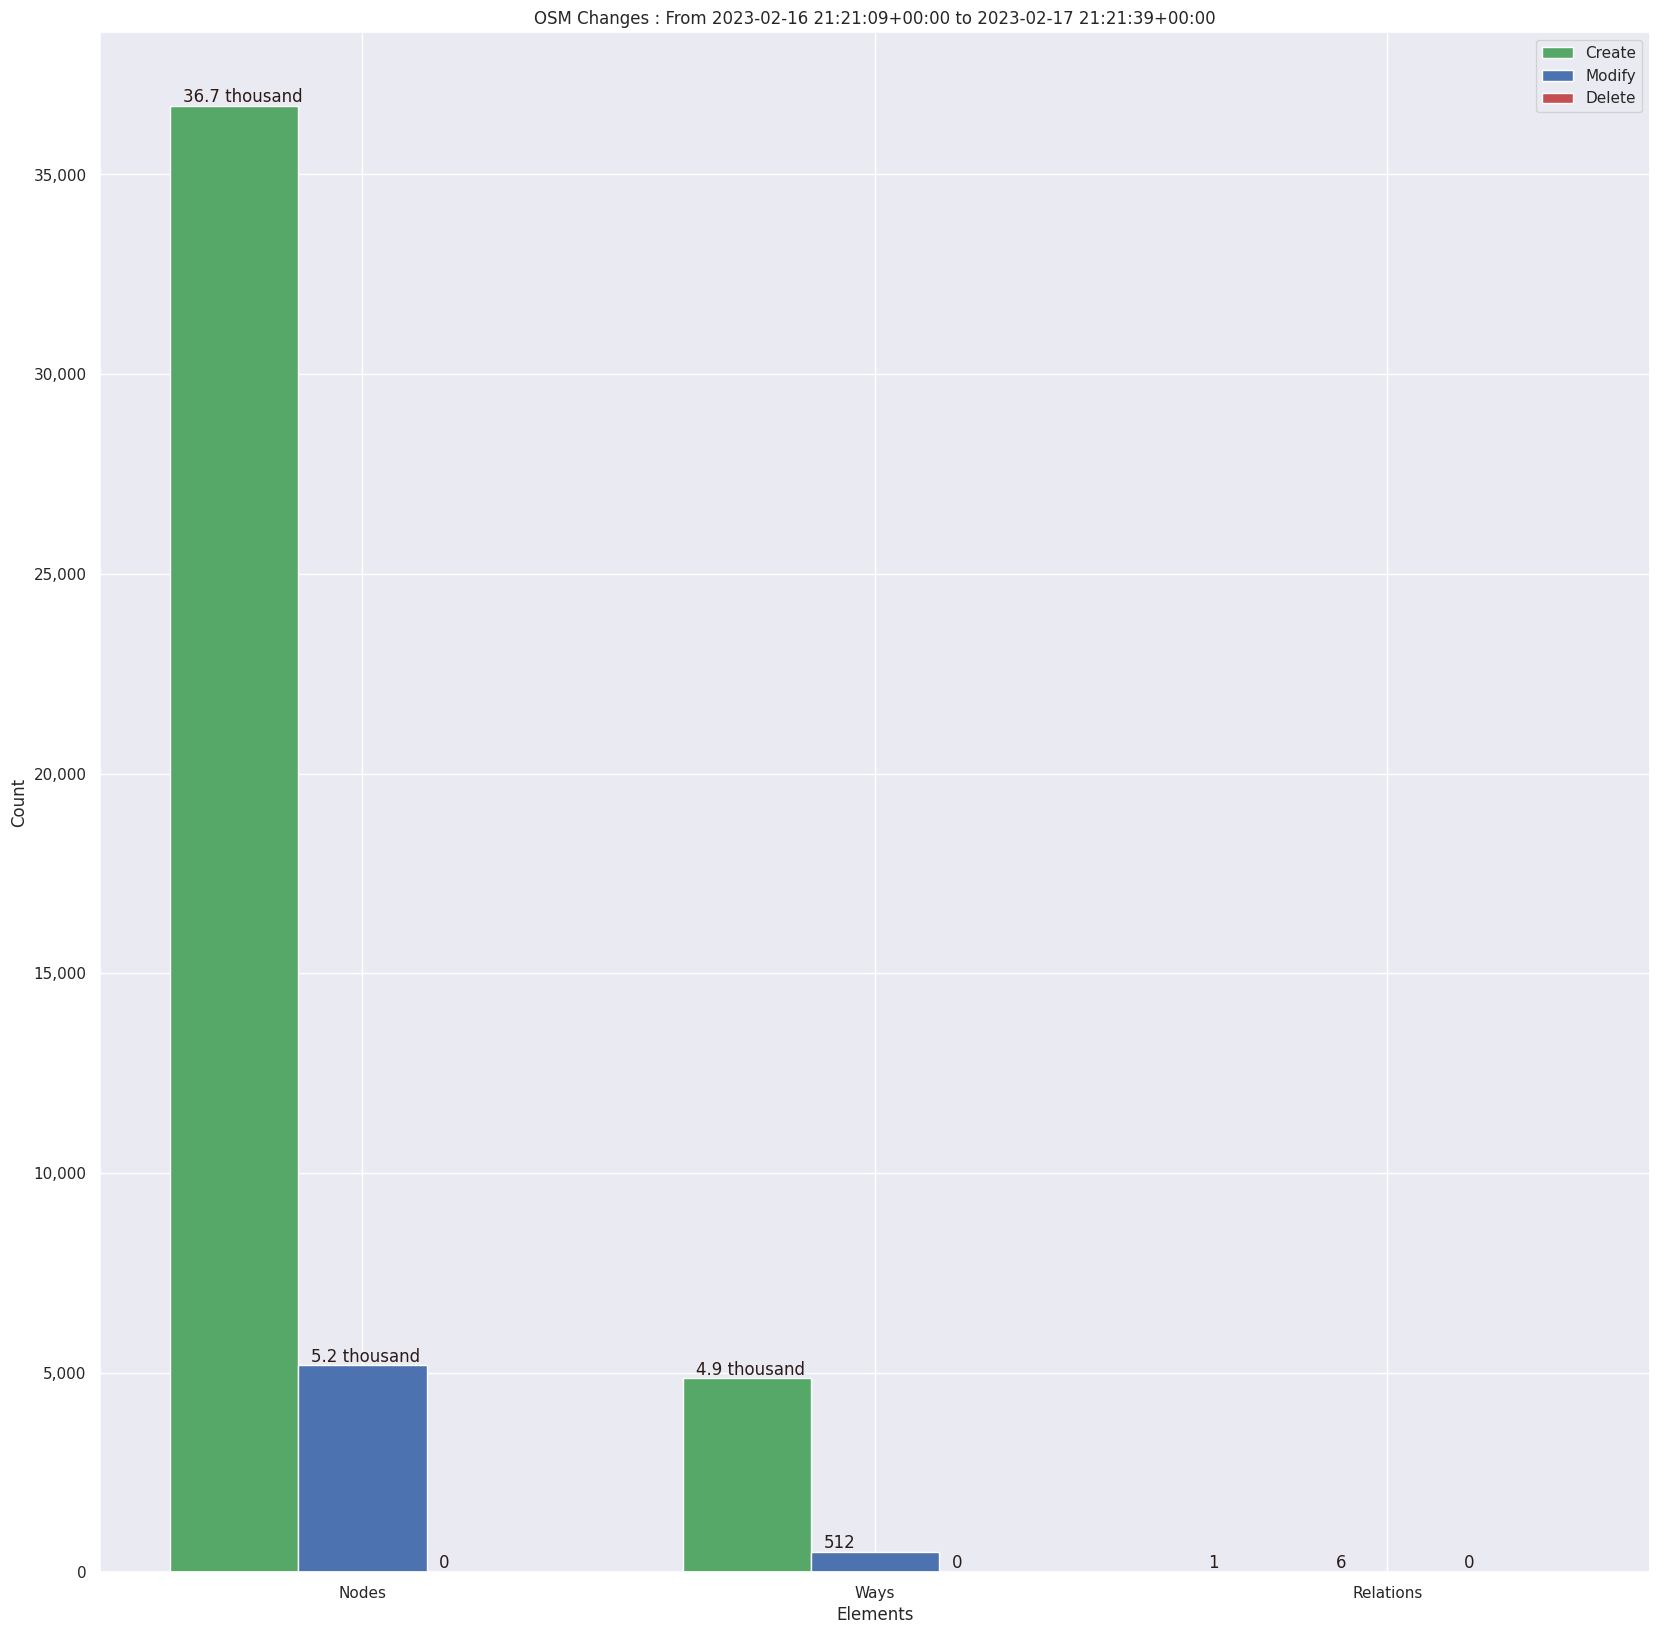
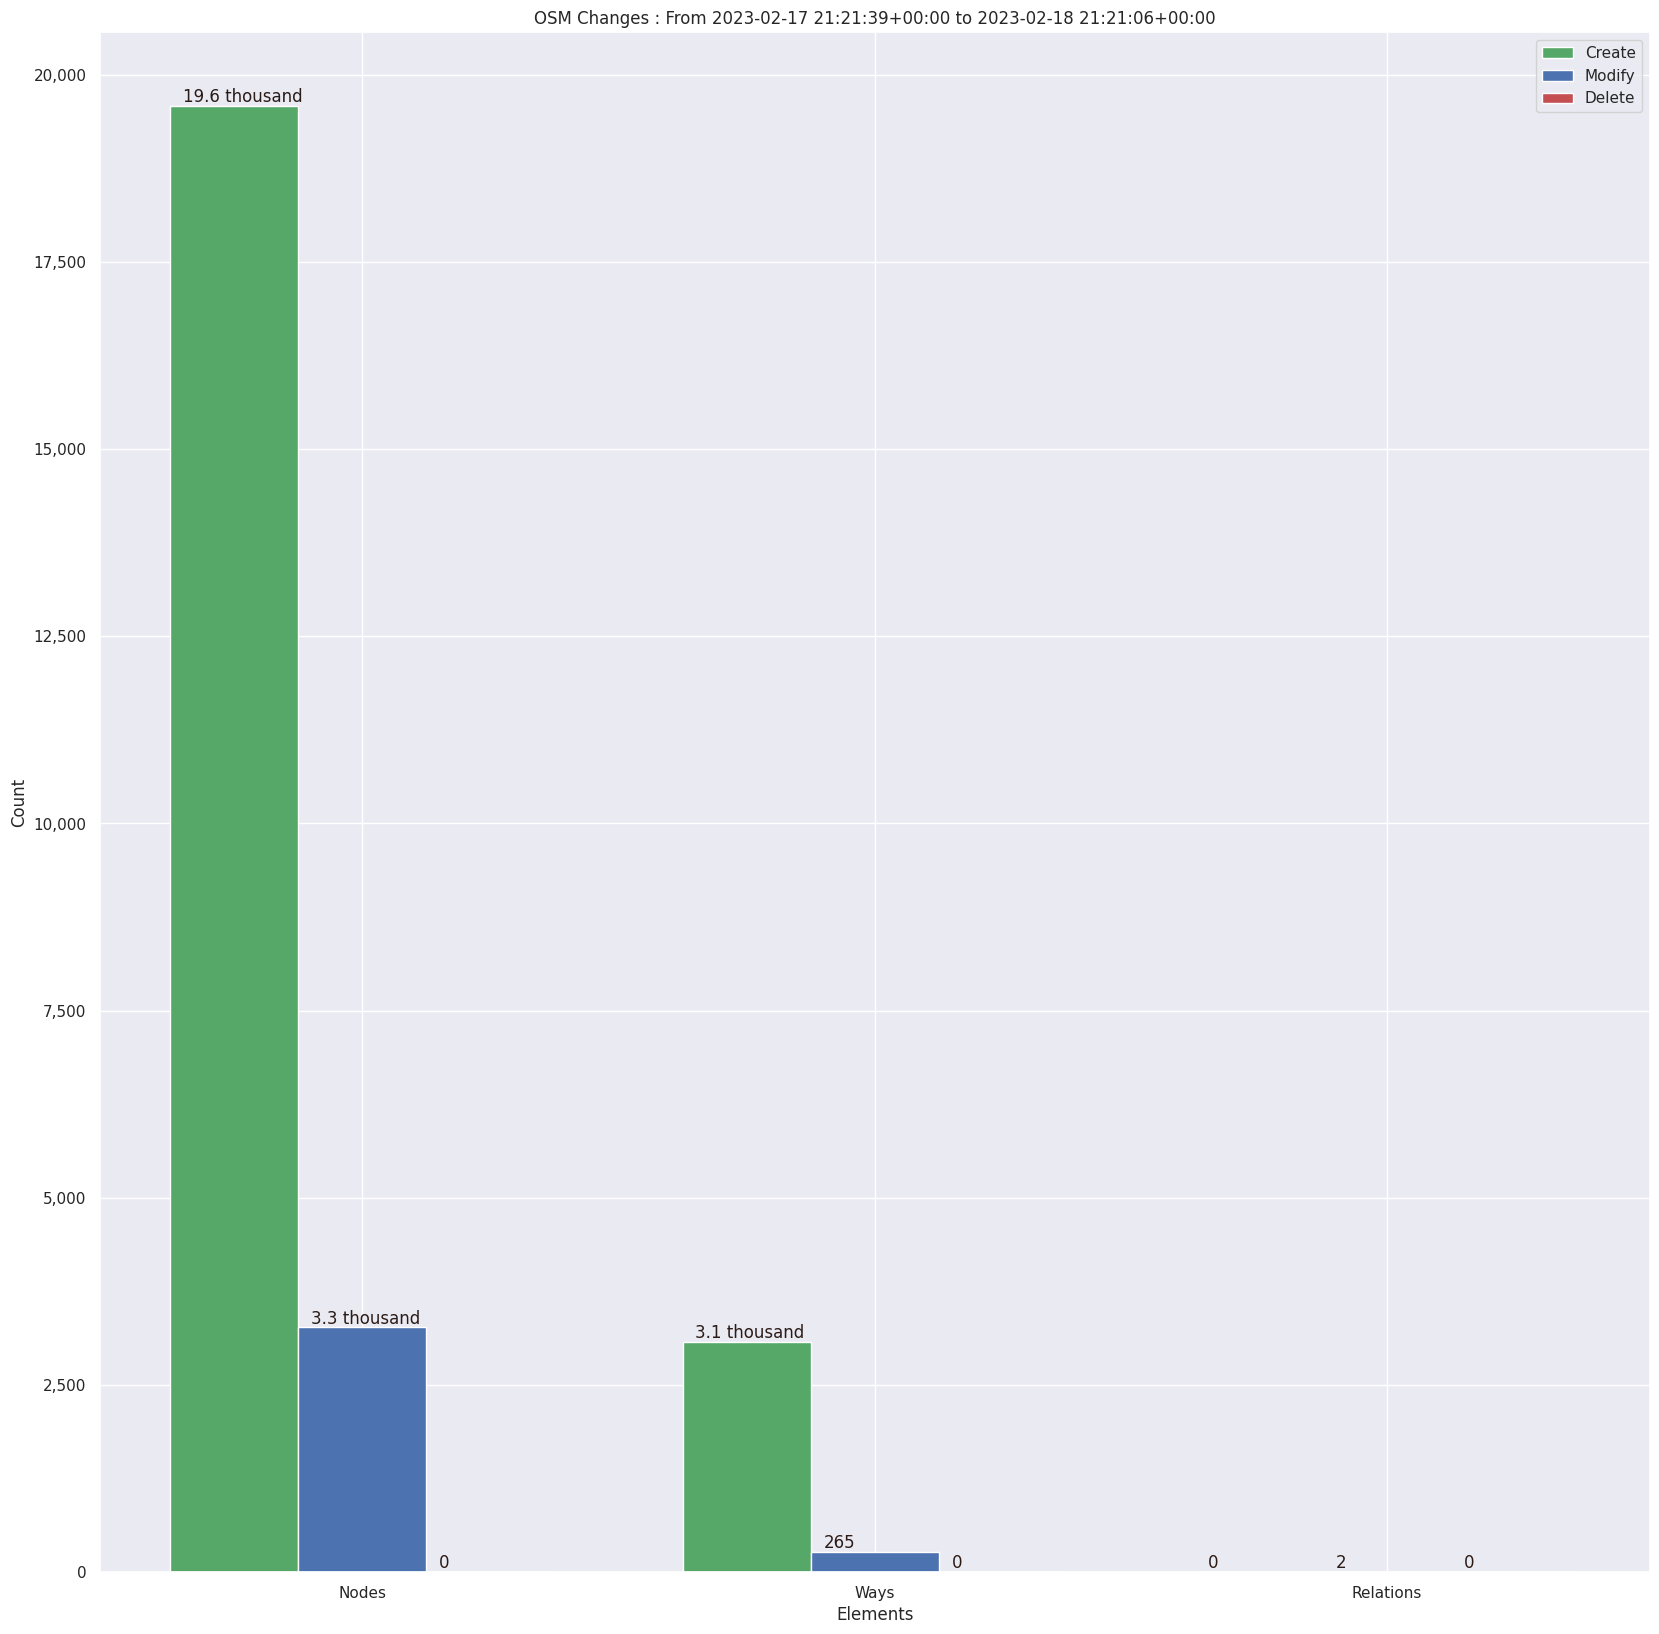
Updated Readme Daily Nepal

diff --git a/stats/Nepal/Daily/README.md b/stats/Nepal/Daily/README.md
@@ -1,10 +1,10 @@
 ### Last Update :
 
-### Stats From 2023-02-17 03:06:09+05:45 to 2023-02-18 03:06:39+05:45
+### Stats From 2023-02-18 03:06:39+05:45 to 2023-02-19 03:06:06+05:45
 
-49 Users made 348 changesets with 47.3 thousand map changes.
-- 41.6 thousand OSM Elements were Created,5.7 thousand Modified & 0 Deleted
-- Top three trending hashtags for those stats are #osmnepal : 20, #digitalnepal : 19 & #hotosm-project-14284 : 17
+36 Users made 150 changesets with 26.2 thousand map changes.
+- 22.7 thousand OSM Elements were Created,3.5 thousand Modified & 0 Deleted . Including 3.0 thousand buildings & 30 highways created. Nirmala Rawat tops table with 10.1 thousand changes
+- Top three trending hashtags for those stats are #digitalnepal : 12, #osmnepal : 12 & #nepgeom23 : 9
 - 
 ![Alt text](./charts/osm_changes.png) 
 ![Alt text](./charts/users_per_hashtag.png) 
